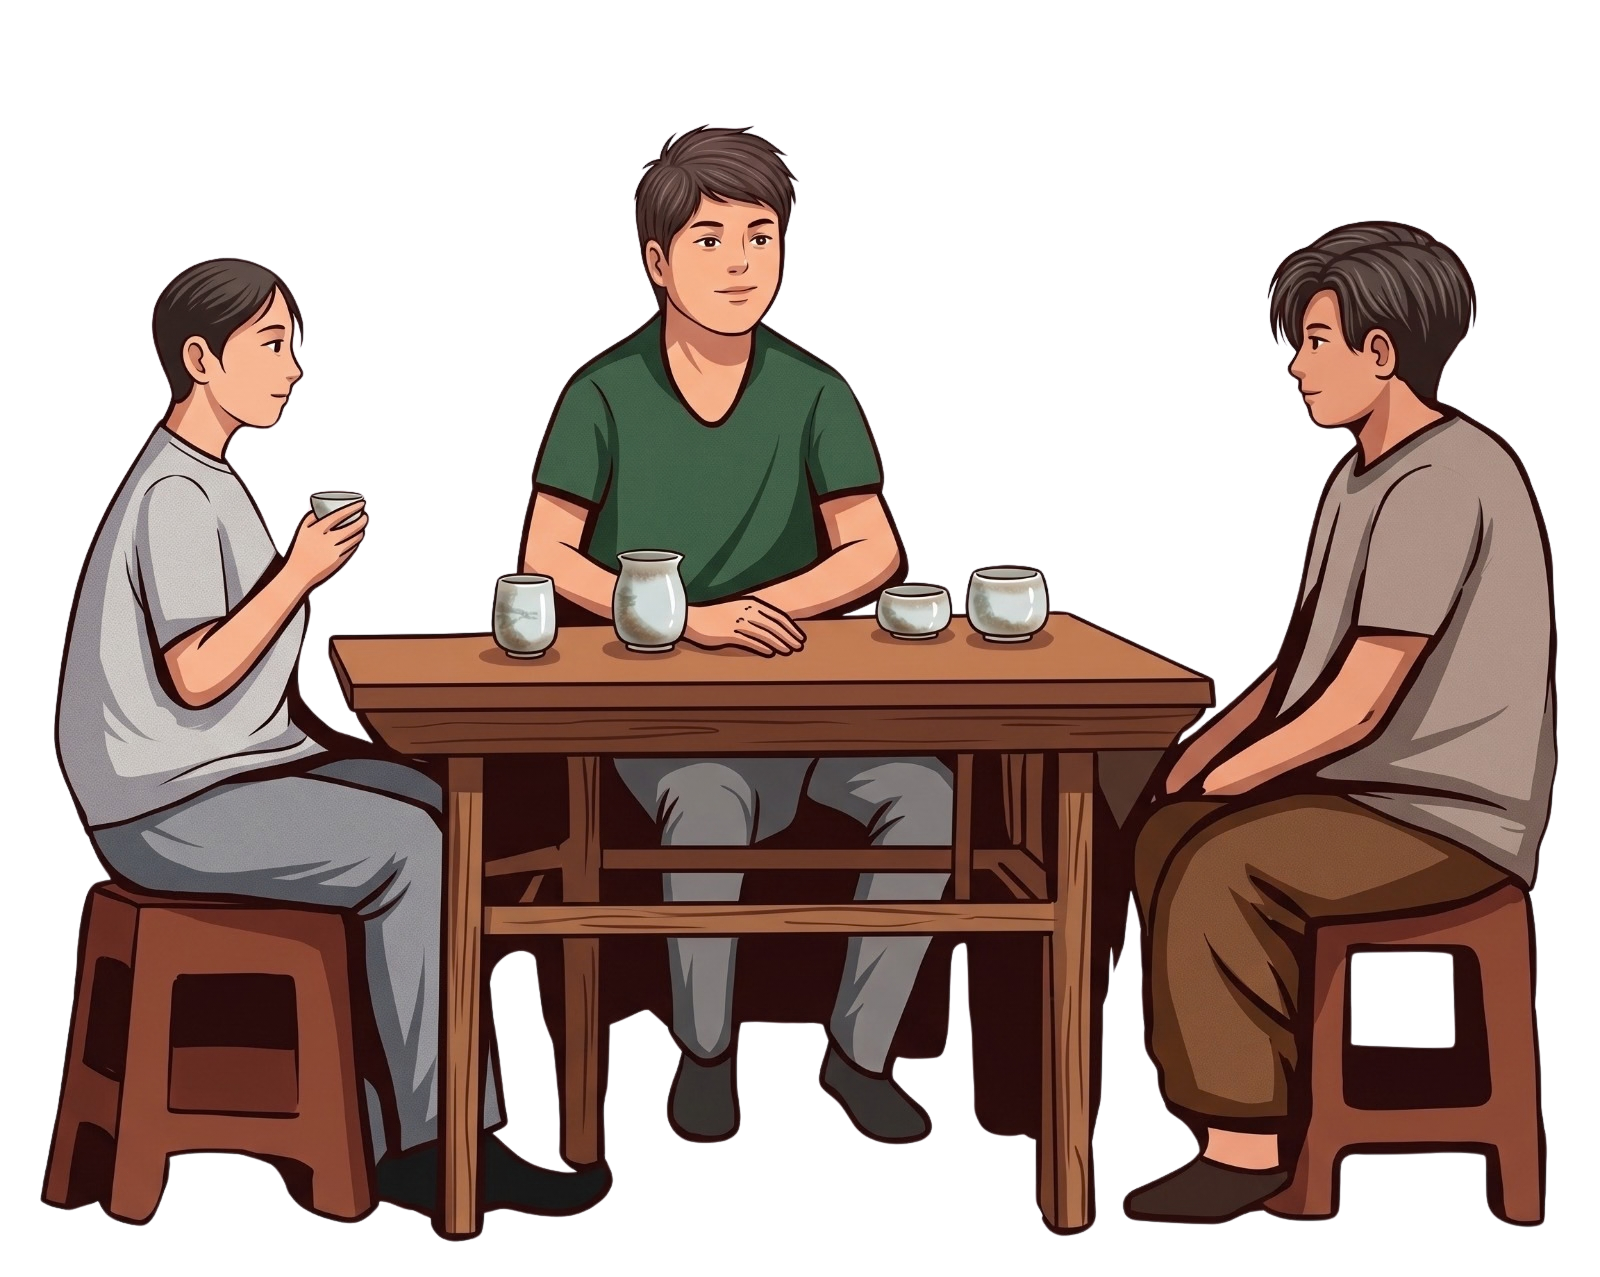
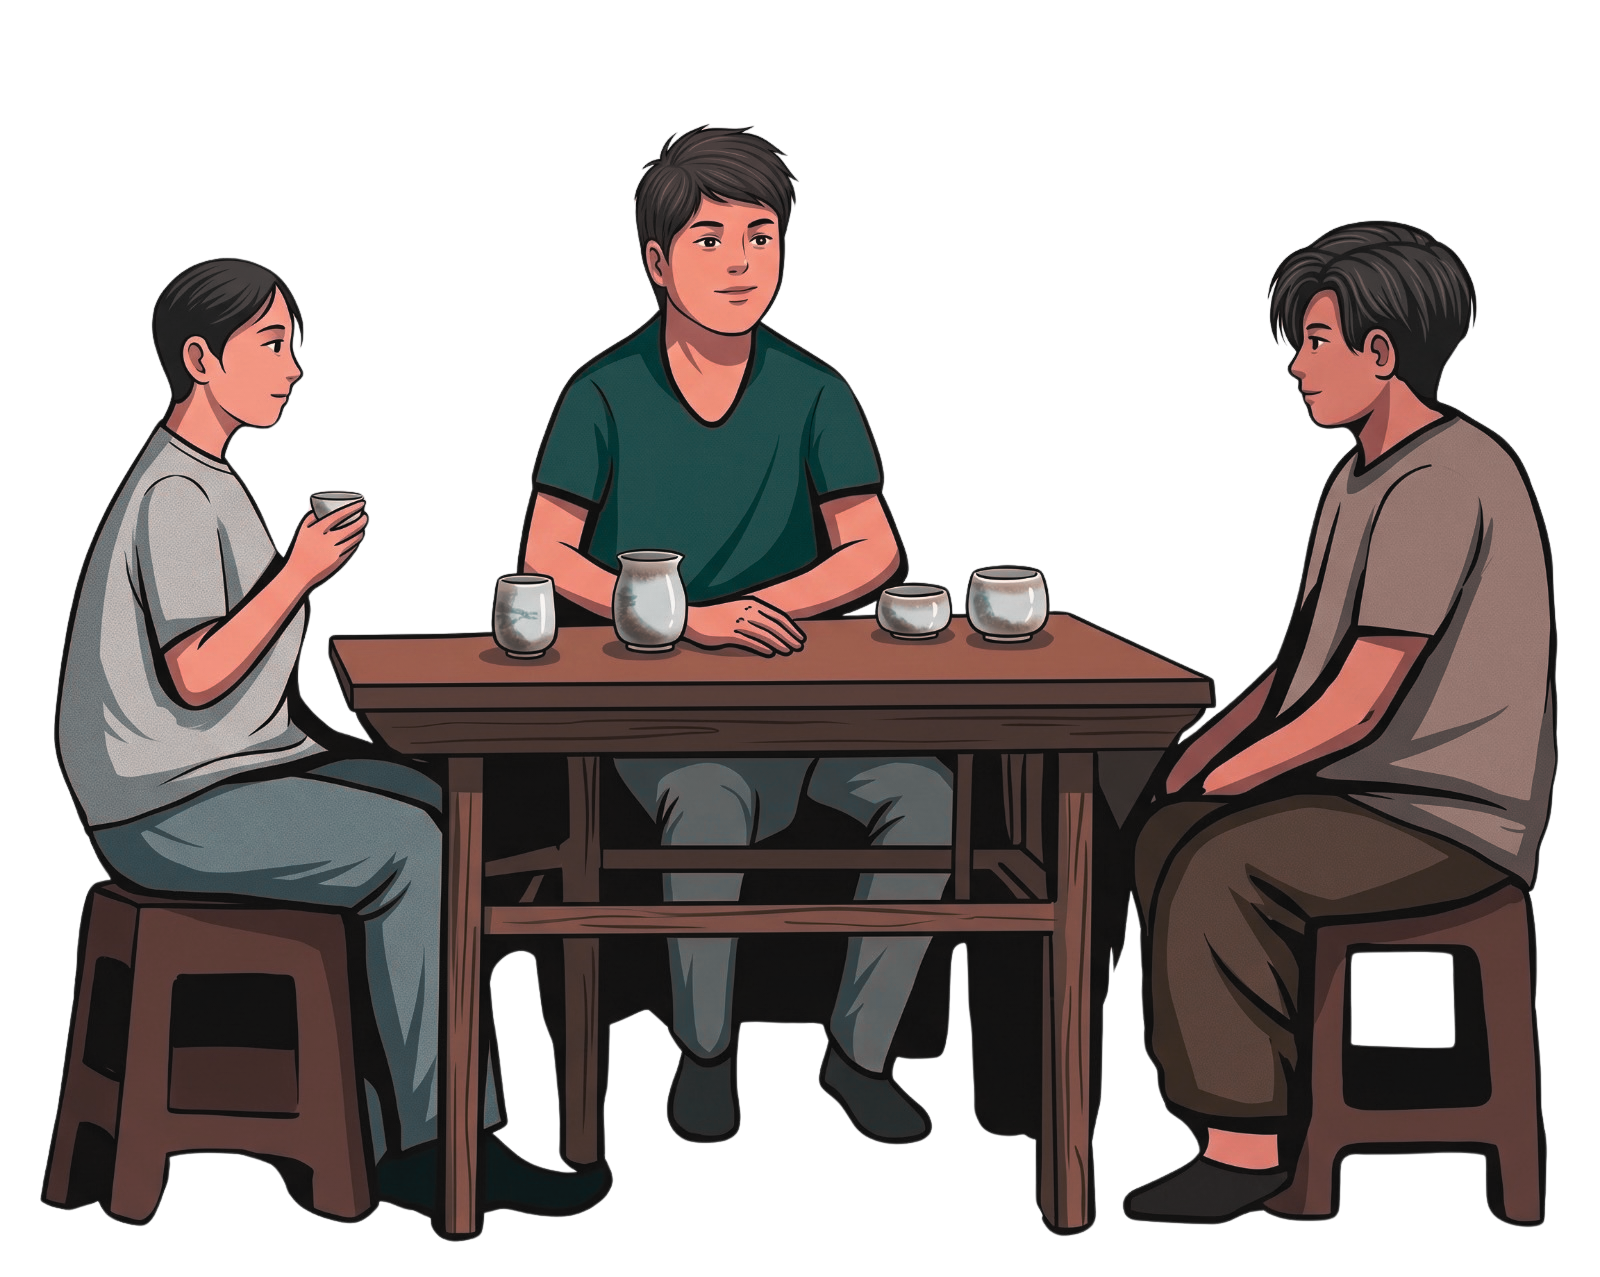
hero: softness back to 0 on all three; blur decided later

diff --git a/web/src/lib/hero-beats.ts b/web/src/lib/hero-beats.ts
@@ -22,5 +22,5 @@ export const BEATS: Beat[] = [
   { id: 'open', cam: { x: 0.5, y: 0.5, s: 1 } },
   { id: 'amena', cam: { x: 0.41, y: 0.5, s: 4 }, cut: { x: 0.3951, y: 0.4737, w: 0.027, soft: 0 } },
   { id: 'rahim', cam: { x: 0.37, y: 0.74, s: 3 }, cut: { x: 0.312, y: 0.745, w: 0.1, soft: 0 } },
-  { id: 'faysal', cam: { x: 0.55, y: 0.78, s: 3.5 }, cut: { x: 0.4912, y: 0.6677, w: 0.102, soft: 0.4 } },
+  { id: 'faysal', cam: { x: 0.55, y: 0.78, s: 3.5 }, cut: { x: 0.4912, y: 0.6677, w: 0.102, soft: 0 } },
 ];
